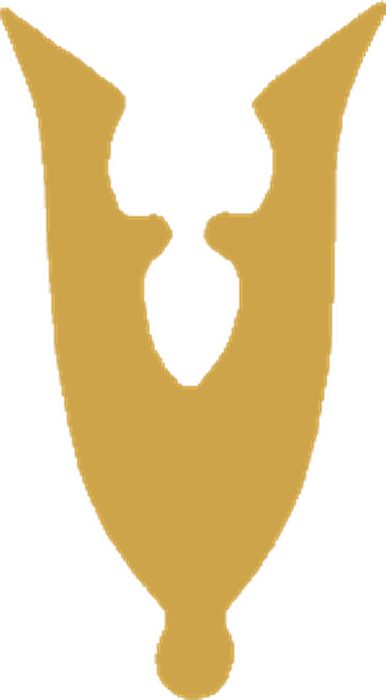
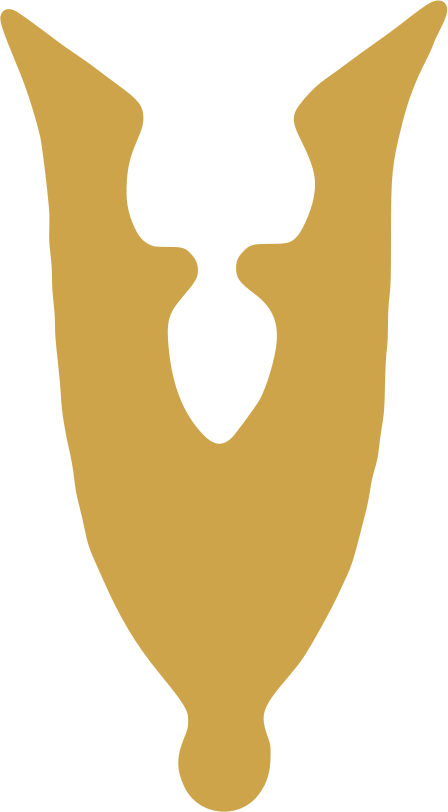
fgtrfd

diff --git a/public/css/style.css b/public/css/style.css
@@ -437,8 +437,8 @@ input[type=file] { font-size: .88rem; }
   z-index: 0; pointer-events: none; background: no-repeat center / contain;
 }
 .hero--v::before {
-  width: 210px; height: 380px; opacity: .85; right: 20px;
-  background-image: url("/static/img/veteranen-v.png?v=1");
+  width: 165px; height: 300px; opacity: .8; right: 24px;
+  background-image: url("/static/img/veteranen-v.png?v=4");
 }
 .hero--em::before {
   width: 270px; height: 356px; opacity: .8; right: -6px;